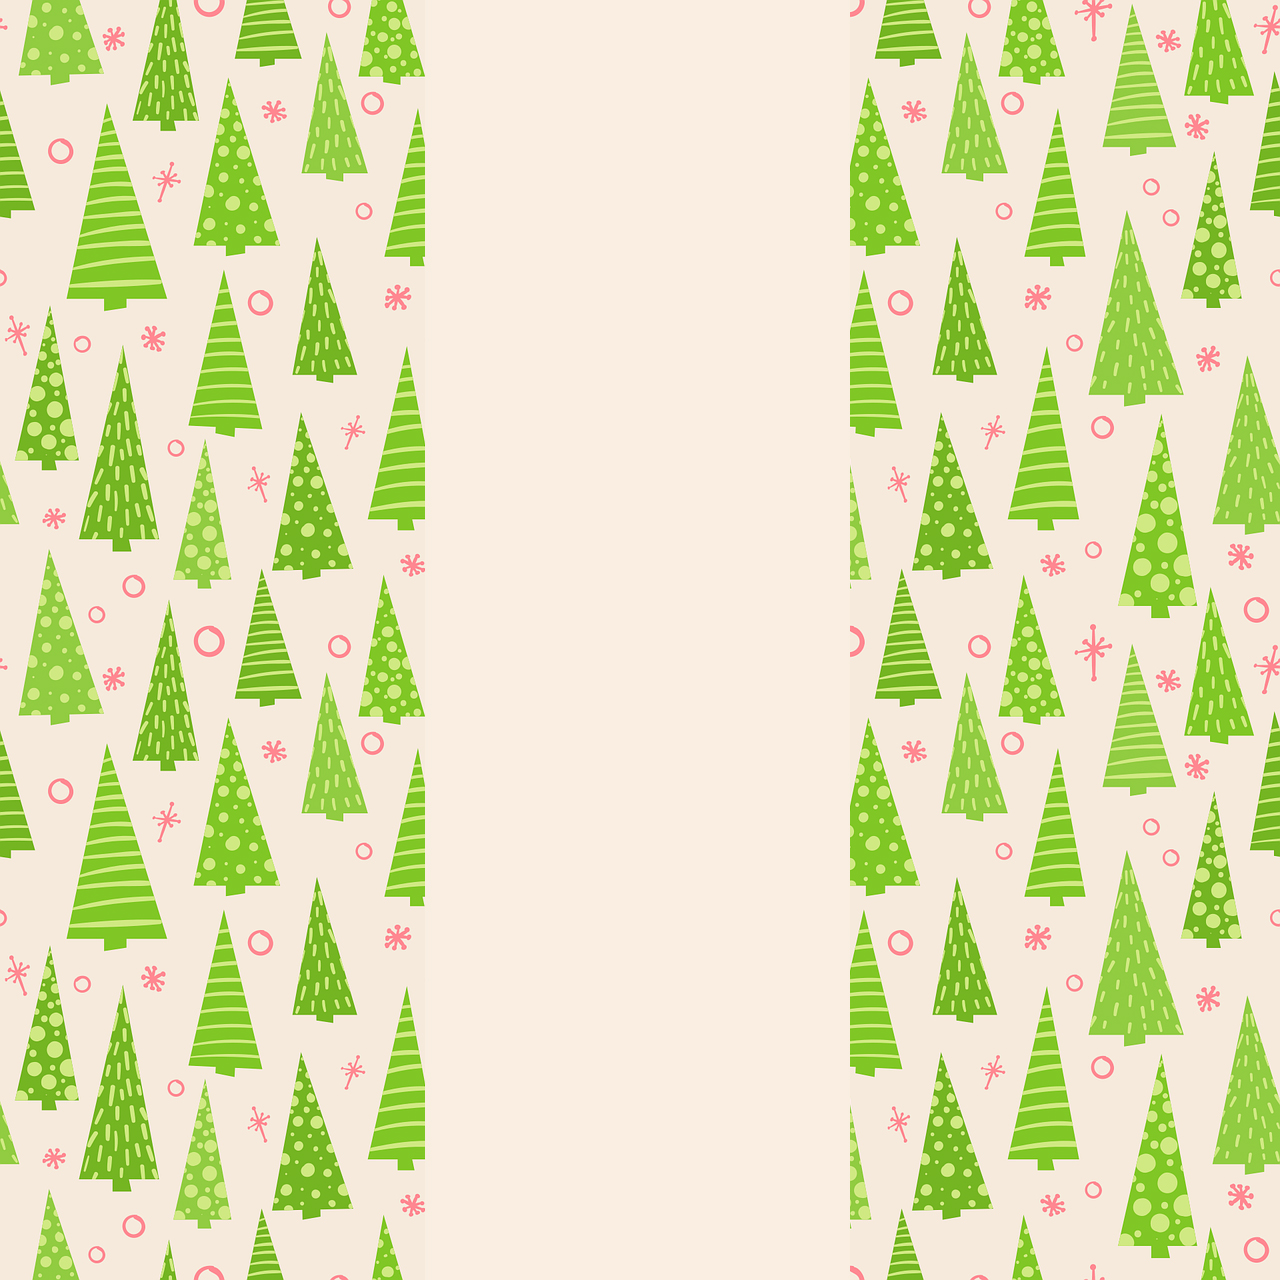
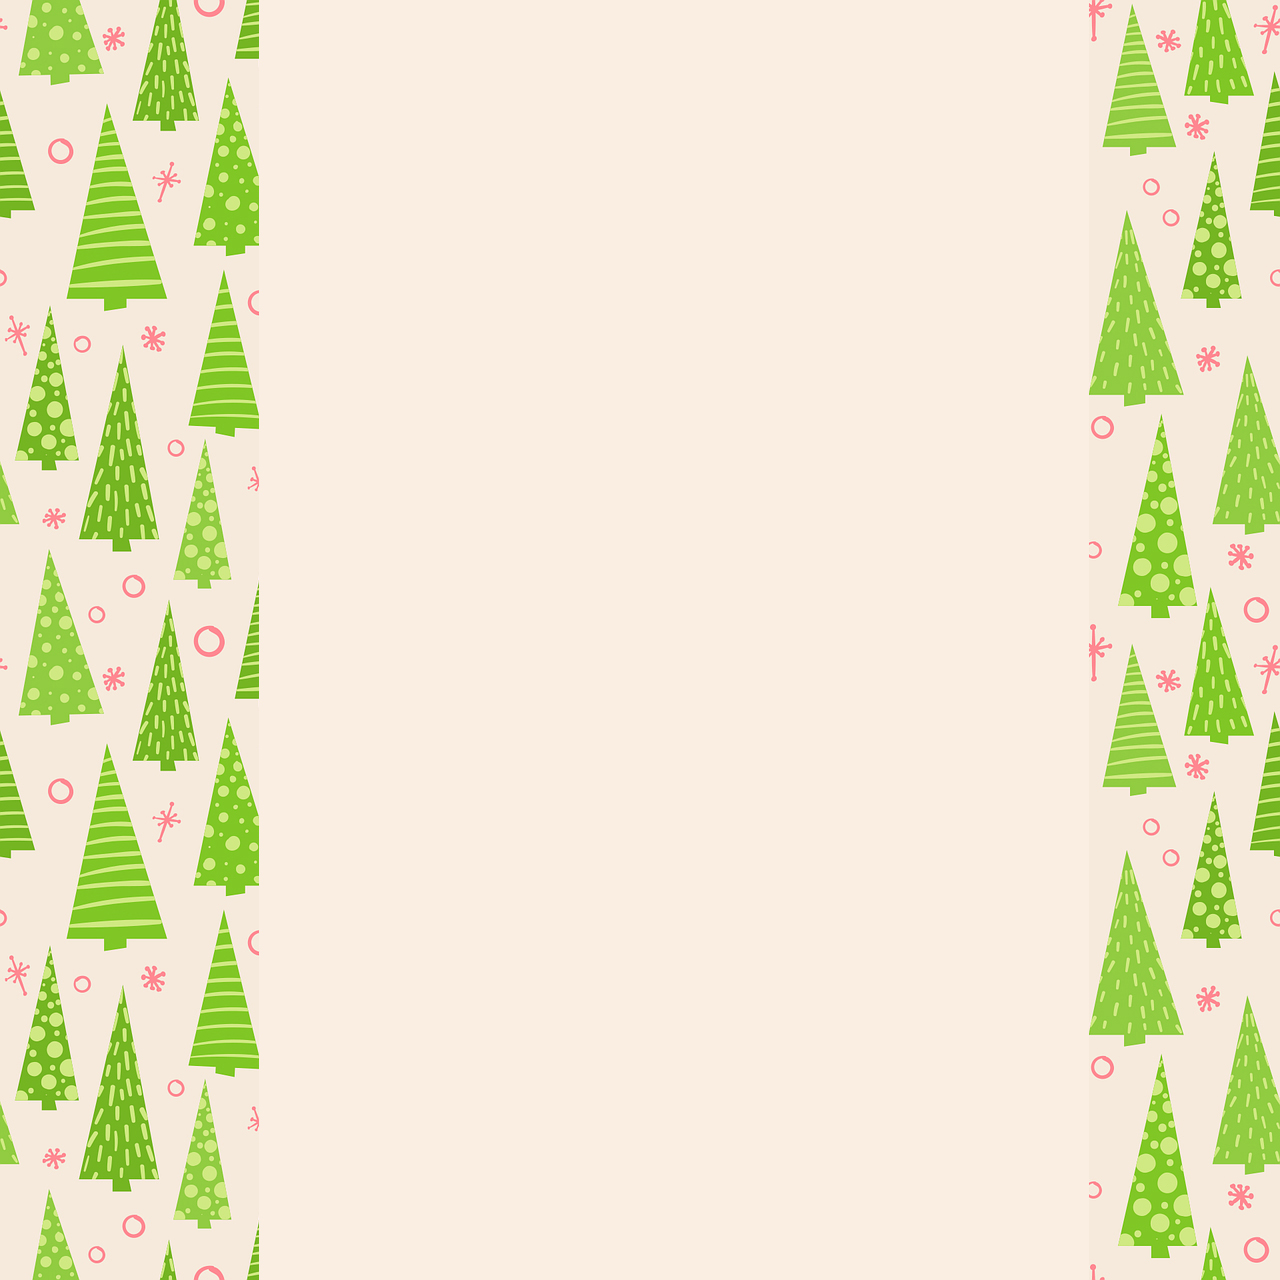
cambios de fondo

diff --git a/index.html b/index.html
@@ -27,9 +27,9 @@
         </center>
     
 </div>
-<div class="ingredientes">
+<div class="ingredientes"> <b>
     Los ingredientes que vamos a necesitar son:
-</div >
+</div ></b>
 <ul class="container">
     <li>
     1 taza de agua

diff --git a/style.css b/style.css
@@ -4,7 +4,7 @@ html {
 
 body {
     margin:0;
-    background-image:url("img/fondonavideño2.png");
+    background-image:url("img/fondonavideño2.jpg");
     }
 
 h1{
